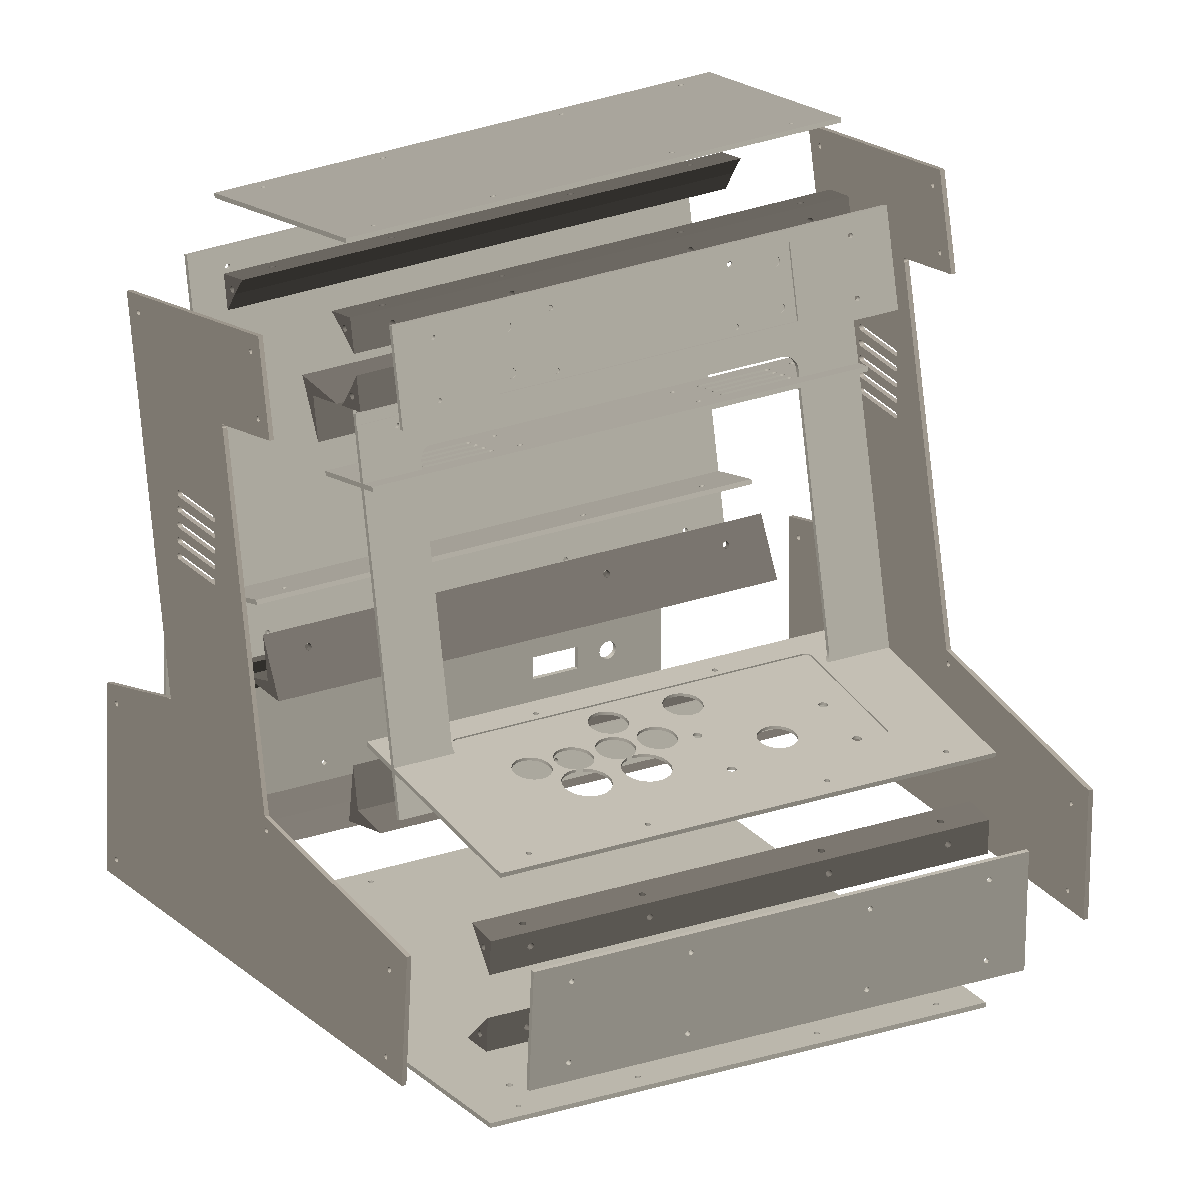
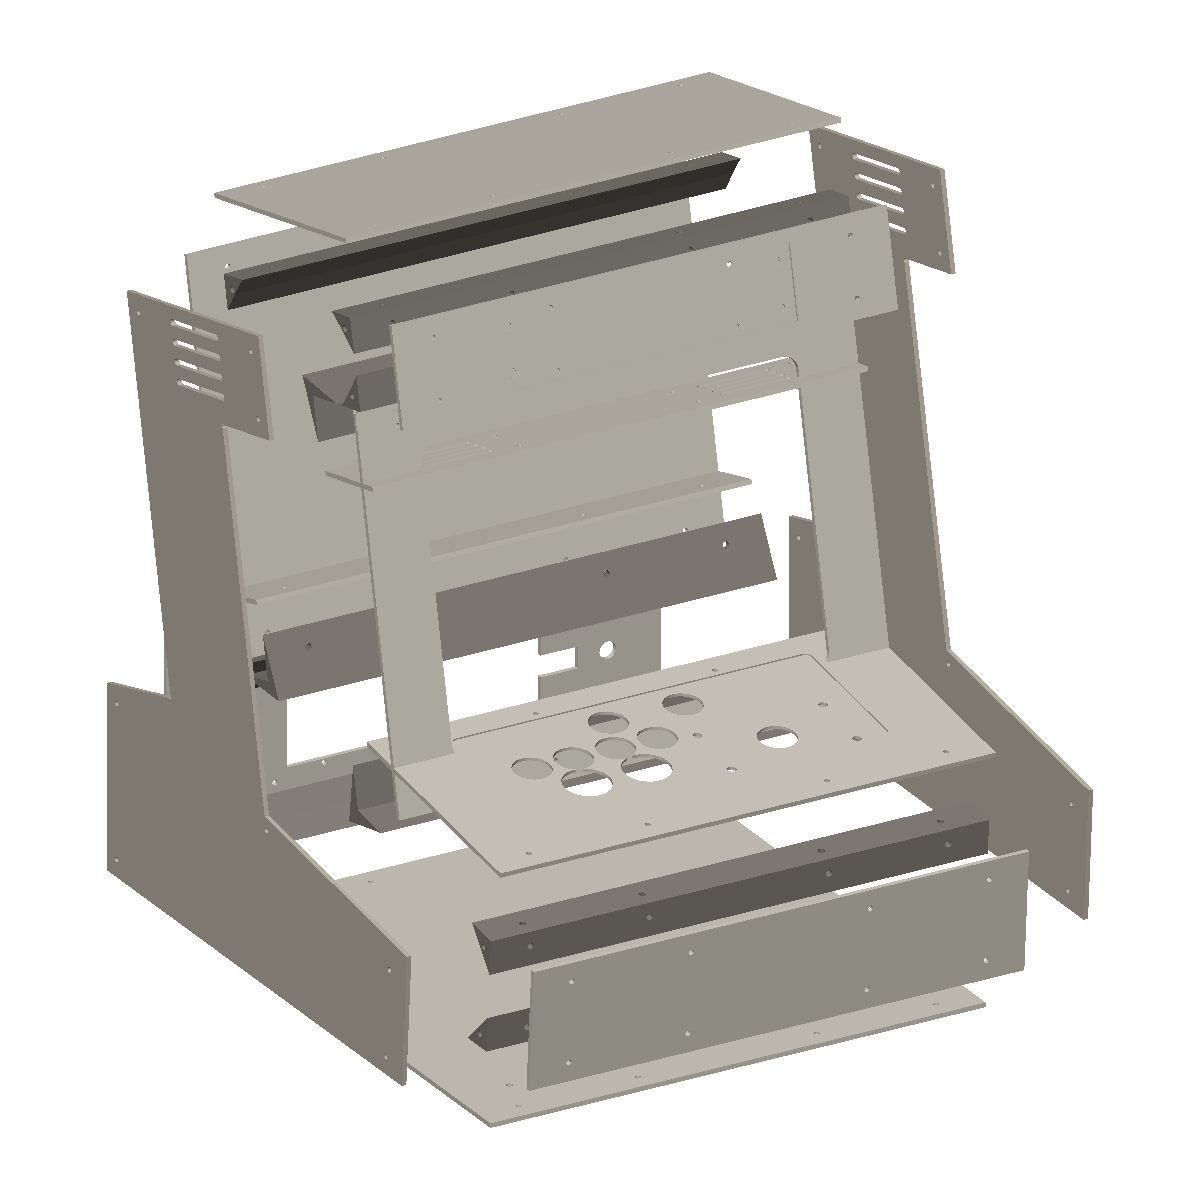
hardware: hood-side raked vents, admin buttons, rear service hatch (iter 28)
Vents move from neck/rear to the hood zone on the side plates, raked
parallel to the cap (user direction). 3x LED admin holes on the rear
I/O row; 170x90 rear service hatch with M3-insert boss blocks (placed
outside the opening — the parts.py multi-body guard caught the
first-pass floaters).

diff --git a/hardware/cabinet.py b/hardware/cabinet.py
@@ -96,13 +96,14 @@ PARAMS = {
     "chin_groove_drop": 5.5,       # mm groove center below the face top
                                    # (hugs the chin; stays clear of the
                                    # reveal ring around the 4:3 window)
-    # --- side vents (gill slots through both cheeks, neck zone) -----------
-    "side_vent_count": 5,
-    "side_vent_slot_len": 44.0,    # mm along Y (capsule, radiused ends)
+    # --- side vents (gill slots through both cheeks, hood zone) -----------
+    # raked parallel to the hood cap — the CRT top-vent read, on the sides
+    "side_vent_count": 4,
+    "side_vent_slot_len": 56.0,    # mm along the cap direction (capsule)
     "side_vent_slot_w": 4.0,
-    "side_vent_pitch": 10.0,
-    "side_vent_y": 236.0,          # centered on the neck at z ~255
-    "side_vent_z": 255.0,          # vents the display-driver cavity
+    "side_vent_pitch": 12.0,       # stacking from the cap toward the floor
+    "side_vent_center_u": 78.0,    # mm from the marquee top along the cap
+    "side_vent_drop": 10.0,        # mm from the cap to the TOP slot center
     # --- silhouette corner radii (2D profile) ----------------------------
     "r_nose_bottom": 22.4,         # iter 25: silhouette radii scaled to 70%
     "r_nose_top": 23.8,            # (iter 24's full radii read too soft)
@@ -177,12 +178,19 @@ PARAMS = {
     "usbc_slot_w": 30.0,
     "usbc_slot_h": 14.0,
     "usbc_xz": (-95.0, 40.0),
-    # --- rear ventilation (vertical fin slots above the I/O row) ----------
-    "rear_vent_z": 85.0,           # mm slot center height
-    "rear_vent_slot_len": 34.0,    # mm, vertical
-    "rear_vent_slot_w": 4.0,
-    "rear_vent_pitch": 16.0,
-    "rear_vent_count": 9,
+    # --- LED admin buttons (rear row: exit/pause/select etc.) -------------
+    "admin_button_hole_dia": 12.2, # 12 mm LED pushbuttons
+    "admin_button_xs": (-40.0, 0.0, 40.0),
+    "admin_button_z": 40.0,        # same rear I/O row
+    # --- rear service hatch (SBC/USB access) -------------------------------
+    "hatch_w": 170.0,
+    "hatch_h": 90.0,
+    "hatch_z": 60.0,               # center height (rear wall, below taper)
+    "hatch_boss_offset": 8.0,      # screw bosses OUTSIDE the opening edge
+                                   # (inside = the cut leaves them floating)
+    "hatch_boss_size": 10.0,       # mm boss cross-section
+    "hatch_boss_depth": 6.0,       # mm boss protrusion into the cavity
+    "hatch_screw_pilot_dia": 4.2,  # M3 heat-set insert pilot
     # --- structure ------------------------------------------------------
     "rib_thickness": 3.0,
     "rib_offset_x": 145.0,         # fore-aft webs at +/- x (clear of controls)
@@ -384,6 +392,7 @@ def build_cabinet(p=None):
     seam_y, seam_z = info["seam_y"], info["seam_z"]
     face_top_y, face_top_z = info["face_top_y"], info["face_top_z"]
     chin_y, chin_z = info["chin_y"], info["chin_z"]
+    mrq_y, mrq_z = info["mrq_y"], info["mrq_z"]
     deck_z = info["deck_z"]
 
     with BuildPart() as bp:
@@ -560,12 +569,27 @@ def build_cabinet(p=None):
     ux, uz = p["usbc_xz"]
     solid -= Pos(ux, back_y, uz) * Box(p["usbc_slot_w"], wall + 4, p["usbc_slot_h"])
 
-    # --- rear ventilation: vertical fin slots above the I/O row ----------
-    for i in range(p["rear_vent_count"]):
-        vx = (i - (p["rear_vent_count"] - 1) / 2) * p["rear_vent_pitch"]
-        solid -= Pos(vx, back_y, p["rear_vent_z"]) * Box(
-            p["rear_vent_slot_w"], wall + 4, p["rear_vent_slot_len"]
+    # LED admin buttons on the same rear row
+    for ax in p["admin_button_xs"]:
+        solid -= Pos(ax, back_y, p["admin_button_z"]) * Rot(90, 0, 0) * Cylinder(
+            radius=p["admin_button_hole_dia"] / 2, height=wall + 4
         )
+
+    # rear service hatch + corner screw bosses (M3 insert pilots)
+    hw, hh, hz = p["hatch_w"], p["hatch_h"], p["hatch_z"]
+    solid -= Pos(0, back_y, hz) * Box(hw, wall + 4, hh)
+    bi, bs = p["hatch_boss_offset"], p["hatch_boss_size"]
+    bd = p["hatch_boss_depth"]
+    boss_y = back_y - wall - bd / 2 + 0.5  # embeds 0.5 into the inner wall
+    for sx4 in (-1, 1):
+        for sz4 in (-1, 1):
+            bx = sx4 * (hw / 2 + bi)
+            bz = hz + sz4 * (hh / 2 + bi)
+            solid += Pos(bx, boss_y, bz) * Box(bs, bd, bs)
+            solid -= Pos(bx, boss_y, bz) * Rot(90, 0, 0) * Cylinder(
+                radius=p["hatch_screw_pilot_dia"] / 2,
+                height=bd + p["hatch_screw_pilot_dia"],
+            )
 
     # --- hood floor speaker grilles (down-firing at the player) -----------
     # frame on the hood floor: X across, local Y into the cabinet (up-slope)
@@ -588,29 +612,30 @@ def build_cabinet(p=None):
                     gx + sx3 * (sl - sw) / 2, wall / 2, z_r
                 ) * Rot(90, 0, 0) * Cylinder(radius=sw / 2, height=wall + 2)
 
-    # --- side vents: gill capsules through both cheeks + shell sides -----
-    # Neck zone (display-driver cavity); the powerful/stylized read comes
-    # from cutting through the proud 8 mm cheeks, not just the wall.
+    # --- side vents: raked gill capsules through both cheeks, hood zone ---
+    # Slots run parallel to the hood cap (the CRT top-vent read, on the
+    # side plates), stacked from just under the cap toward the hood floor.
     svw, svl = p["side_vent_slot_w"], p["side_vent_slot_len"]
     half_w = p["cabinet_width"] / 2
+    u_dir = (cos_t, -sin_t)  # along the hood cap, toward the back
+    vc_y = mrq_y + u_dir[0] * p["side_vent_center_u"]
+    vc_z = mrq_z + u_dir[1] * p["side_vent_center_u"]
+    tilt_deg = p["display_tilt_deg"]
     for sx in (-1, 1):
         xc = sx * (half_w - p["cheek_thickness"] / 2)
         for i in range(p["side_vent_count"]):
-            z = p["side_vent_z"] + (i - (p["side_vent_count"] - 1) / 2) * p[
-                "side_vent_pitch"
-            ]
-            solid -= Pos(xc, p["side_vent_y"], z) * Box(
-                p["cheek_thickness"] + 6, svl - svw, svw
-            )
+            # stack from just under the cap down toward the hood floor
+            drop = p["side_vent_drop"] + i * p["side_vent_pitch"]
+            vy = vc_y - sin_t * drop
+            vz = vc_z - cos_t * drop
+            slot = Pos(xc, vy, vz) * Rot(-tilt_deg, 0, 0)
+            solid -= slot * Box(p["cheek_thickness"] + 6, svl - svw, svw)
             for sy3 in (-1, 1):
-                solid -= Pos(
-                    xc, p["side_vent_y"] + sy3 * (svl - svw) / 2, z
-                ) * Rot(0, 90, 0) * Cylinder(
-                    radius=svw / 2, height=p["cheek_thickness"] + 6
-                )
+                solid -= slot * Pos(0, sy3 * (svl - svw) / 2, 0) * Rot(
+                    0, 90, 0
+                ) * Cylinder(radius=svw / 2, height=p["cheek_thickness"] + 6)
 
     # --- marquee nameplate recess + magnet pockets ------------------------
-    mrq_y, mrq_z = info["mrq_y"], info["mrq_z"]
     mface = Plane(
         origin=(0, (chin_y + mrq_y) / 2, (chin_z + mrq_z) / 2),
         x_dir=(1, 0, 0),

diff --git a/hardware/panels.py b/hardware/panels.py
@@ -222,12 +222,18 @@ def panel_features(name, panel, length):
         panel -= Pos(p["usbc_xz"][0], p["usbc_xz"][1] - half, 0) * Box(
             p["usbc_slot_w"], p["usbc_slot_h"], cut_h
         )
-        # ventilation fins above the I/O row (matches the shell)
-        for i in range(p["rear_vent_count"]):
-            vx = (i - (p["rear_vent_count"] - 1) / 2) * p["rear_vent_pitch"]
-            panel -= Pos(vx, p["rear_vent_z"] - half, 0) * Box(
-                p["rear_vent_slot_w"], p["rear_vent_slot_len"], cut_h
-            )
+        # LED admin buttons on the same row
+        for ax in p["admin_button_xs"]:
+            hole(ax, p["admin_button_z"] - half, p["admin_button_hole_dia"])
+        # service hatch + door screw clearances (outside the opening edge)
+        hw, hh = p["hatch_w"], p["hatch_h"]
+        panel -= Pos(0, p["hatch_z"] - half, 0) * Box(hw, hh, cut_h)
+        bi = p["hatch_boss_offset"]
+        for sx4 in (-1, 1):
+            for sz4 in (-1, 1):
+                hole(sx4 * (hw / 2 + bi),
+                     p["hatch_z"] + sz4 * (hh / 2 + bi) - half,
+                     PP["screw_hole_dia"])
 
     elif name == "bottom":
         fx = p["cabinet_width"] / 2 - 40.0
@@ -327,16 +333,22 @@ def make_side_plate(profile, radii, cleat_bolt_pts, side):
         plate -= Pos(0, cy, cz) * Rot(0, 90, 0) * Cylinder(
             radius=PP["screw_hole_dia"] / 2, height=t + 2
         )
-    # side-vent gills (same positions as the shell cheeks)
+    # side-vent gills (same raked hood-zone positions as the shell cheeks)
     p = CAB
+    _, _, info = side_profile(p)
+    t_rad = math.radians(p["display_tilt_deg"])
+    sin_t, cos_t = math.sin(t_rad), math.cos(t_rad)
+    vc_y = info["mrq_y"] + cos_t * p["side_vent_center_u"]
+    vc_z = info["mrq_z"] - sin_t * p["side_vent_center_u"]
     svw, svl = p["side_vent_slot_w"], p["side_vent_slot_len"]
     for i in range(p["side_vent_count"]):
-        z = p["side_vent_z"] + (i - (p["side_vent_count"] - 1) / 2) * p[
-            "side_vent_pitch"
-        ]
-        plate -= Pos(0, p["side_vent_y"], z) * Box(t + 2, svl - svw, svw)
+        drop = p["side_vent_drop"] + i * p["side_vent_pitch"]
+        vy = vc_y - sin_t * drop
+        vz = vc_z - cos_t * drop
+        slot = Pos(0, vy, vz) * Rot(-p["display_tilt_deg"], 0, 0)
+        plate -= slot * Box(t + 2, svl - svw, svw)
         for sy3 in (-1, 1):
-            plate -= Pos(0, p["side_vent_y"] + sy3 * (svl - svw) / 2, z) * Rot(
+            plate -= slot * Pos(0, sy3 * (svl - svw) / 2, 0) * Rot(
                 0, 90, 0
             ) * Cylinder(radius=svw / 2, height=t + 2)
     x_off = CAB["cabinet_width"] / 2 - t / 2

diff --git a/hardware/design-notes.md b/hardware/design-notes.md
@@ -479,3 +479,20 @@ switch, PSU, inserts, feet) — then an assembled render with the enclosure.
   to the face, so it catches identical light (two-sided shading);
   geometry verified open by probes + tessellation scans; assembly
   renders show the dark panel correctly.
+- Iteration 28 (2026-08-19, archived `iter-033`, assembly `asm-029`):
+  **vents relocated to the hood sides + serviceability pass** (user:
+  vent grilles on the side plate at the hood, raked with the hood
+  angle — not forward-facing, not across the hood face). Side gills
+  moved from the neck zone (horizontal, z=255) to the hood zone: 4
+  raked capsules (56x4, pitch 12) parallel to the hood cap, stacked
+  from 10 mm under the cap toward the floor, center 78 mm along the
+  cap from the marquee top. Rear fins DELETED (hood sides + speaker
+  area carry ventilation now). New: 3x LED admin button holes
+  (Ø12.2) on the rear I/O row (x -40/0/+40, z=40); rear service
+  hatch 170x90 at z=60 with 4 corner boss blocks (M3 heat-set
+  pilots) for a screw-on door — bosses sit 8 mm OUTSIDE the opening
+  edge (the first pass put them inside the opening and the new
+  multi-body guard in parts.py caught the floaters immediately:
+  cabinet reported solids=5). panels.py: back panel gets the hatch +
+  door screw clearances, side plates get the raked vents. Envelope
+  unchanged 340 x 346.5 x 411.1 mm. Chain green.
